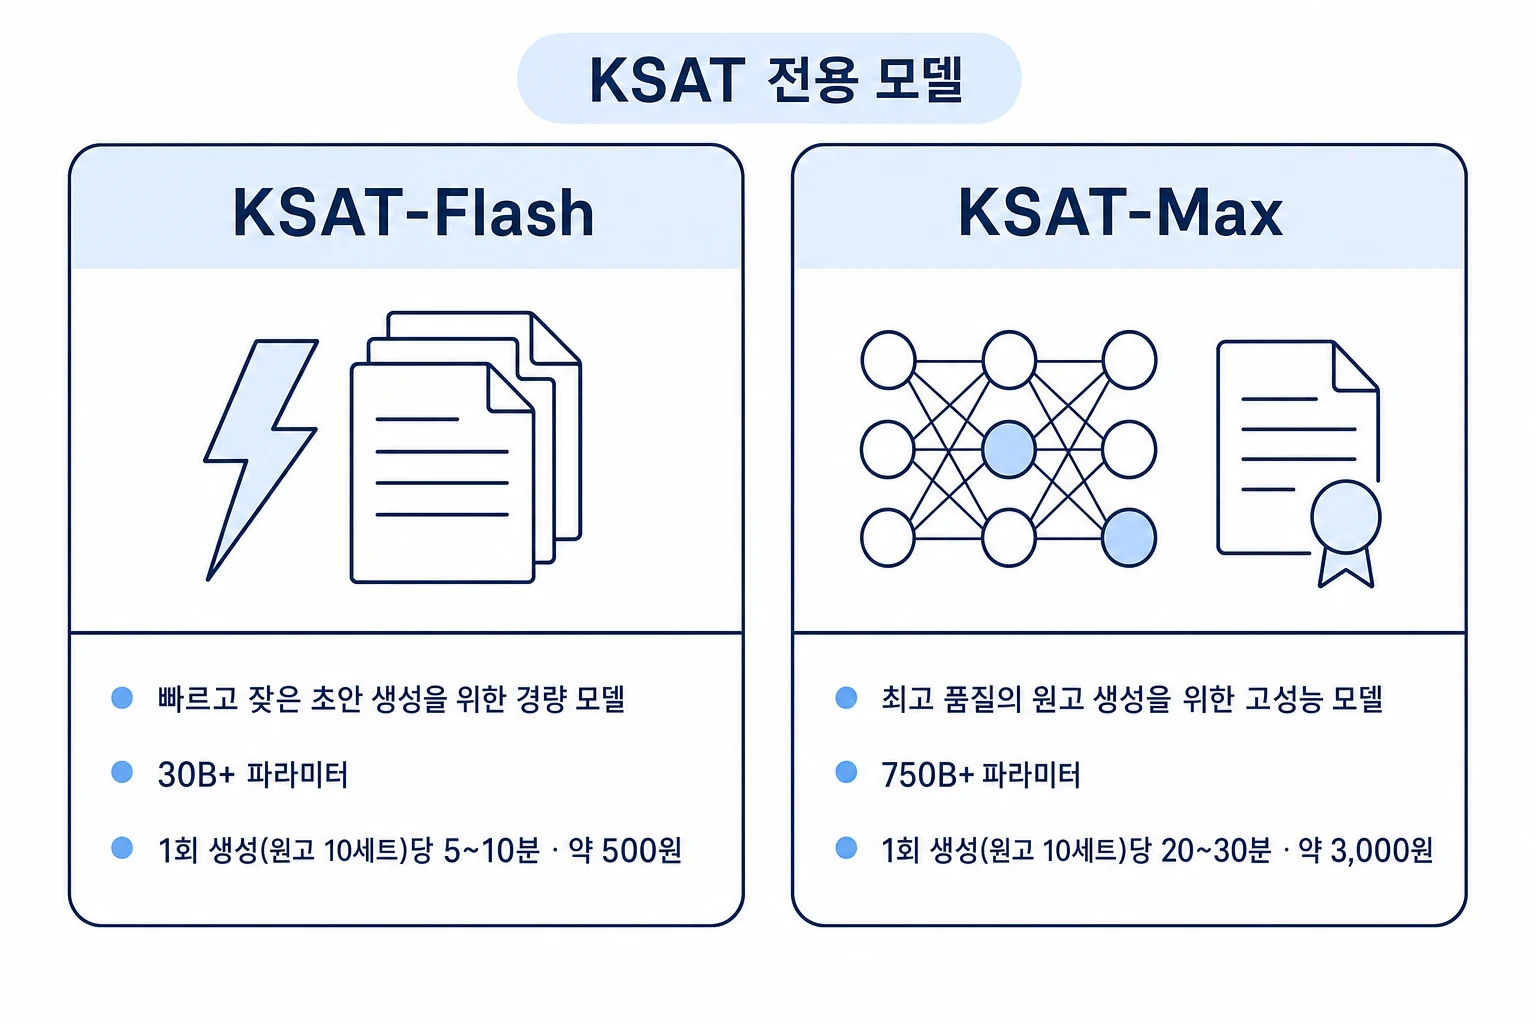
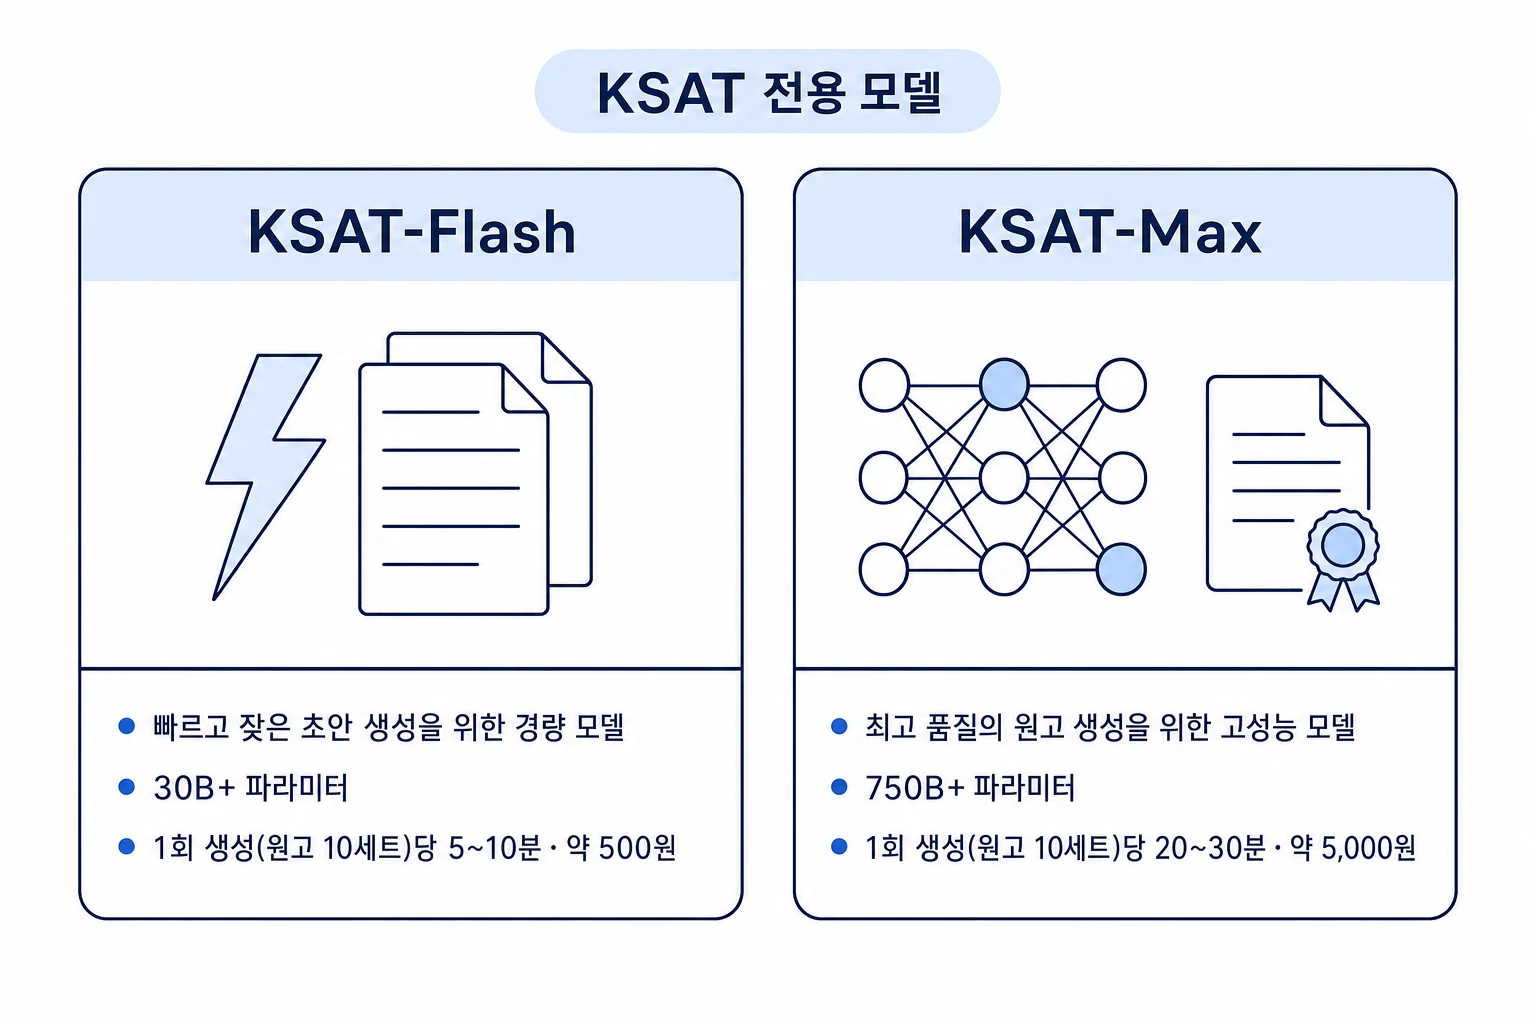
Max 1회 생성 비용을 5,000원으로 고친다

Changed region(s): [[0.0312, 0.0312, 0.9688, 0.9062]]

diff --git a/research/ksat-agent.html b/research/ksat-agent.html
@@ -186,7 +186,7 @@
   <td>750B+</td>
   <td>약 15~20분</td>
   <td>약 5분</td>
-  <td>약 3,000원</td>
+  <td>약 5,000원</td>
   <td>최고 품질의 원고 생성</td>
 </tr>
 </tbody>
